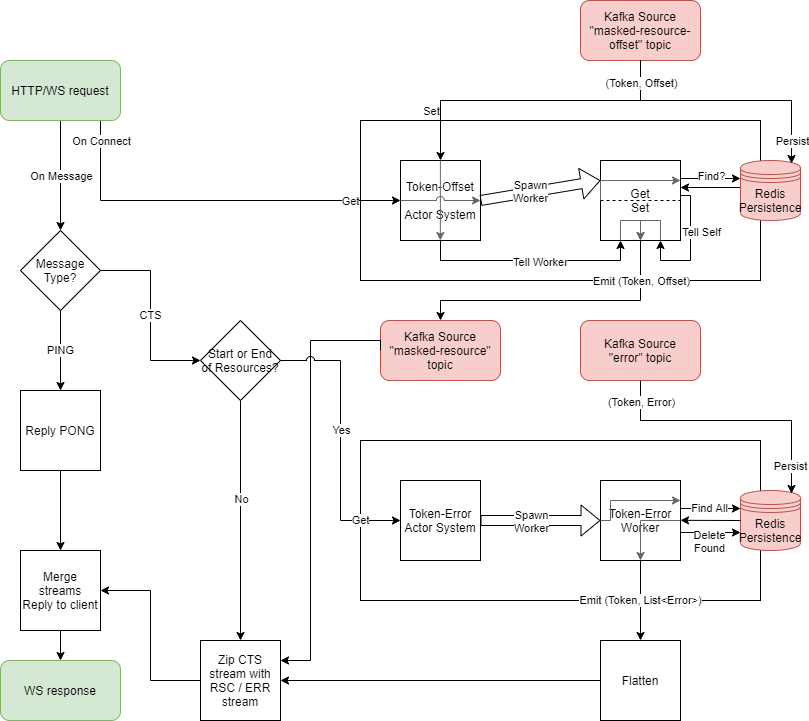
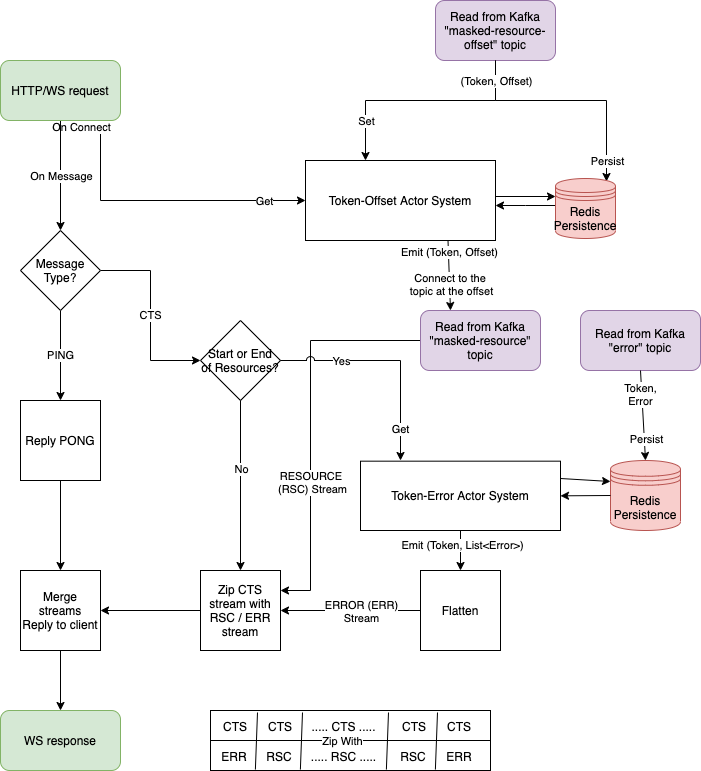
PAL-1090 updated frs diagrams and readmes

diff --git a/filtered-resource-service/README.md b/filtered-resource-service/README.md
@@ -62,15 +62,21 @@ See filtered-resource-service/doc/filtered-resource-service.drawio for the sourc
 The main route of web requests - and subsequent websocket messages - through the service is shown in the above diagram. 
 The green boxes are client web requests, red boxes are kafka topics, and red storage is redis persistence.
 
-### Token-Offset System
+### Token-Offset Actor System
 
 The top-right box is the token-offset-system and its associated worker actors. 
 This performs the task of persisting and retrieving offsets for tokens. 
 We use an Akka Actor System to process both requests from the client and messages from kafka. 
-In the former case, the offset is either looked-up from redis or told to the actor from kafka. 
-In the latter case, the offset is persisted to redis and then told to all running actors for that given token.
+The first diagram below shows what happens when a client connects to the service before the request has been processed by Palisade.
+The second diagram below shows what happens when a client connects to the service after the request has been processed by Palisade.
 
-### Token-Error System
+#### Early Client Connection
+![Filtered-Resource Service Early Client Connection Diagram](doc/Filtered-Resource-Offset-Early-Client.png)
+
+#### Late Client Connection
+![Filtered-Resource Service Late Client Connection Diagram](doc/Filtered-Resource-Offset-Late-Client.png)
+
+### Token-Error Actor System
 
 The bottom-right box is the token-error-system and its associated worker actors. 
 This performs the task of persisting and retrieving errors for tokens. 
@@ -78,10 +84,12 @@ We use an Akka Actor System to process requests from the client.
 For a given token, all errors matching the token are looked-up from redis. 
 This list of errors are then deleted from redis and emitted by the actor. 
 
-### Websocket Event Service
+![Filtered-Resource Service Error Actor System Diagram](doc/Filtered-Resource-Errors-Actor-System.png)
 
-The left-half is the websocket-event-service. 
-An instance of this service is created for each open client websocket connection. 
+### WebSocket Event Service
+
+The left-half is the WebSocket-event-service. 
+An instance of this service is created for each open client WebSocket connection. 
 The client and server communicate using the following protocol:
 
 | Client Request | Server Response                | Notes

diff --git a/filtered-resource-service/doc/README.md b/filtered-resource-service/doc/README.md
@@ -33,3 +33,16 @@ See [draw.io](https://app.diagrams.net/) for the tools to reproduce the image fr
 
 ### [Filtered-Resource-Service-LL.drawio](./Filtered-Resource-Service-LL.drawio)
 ![filtered-resource-service.drawio](./Filtered-Resource-Service-LL.png)
+
+---
+
+### [Topic-Offset-Actor-System.drawio](./Filtered-Resource-Offset-Actor-System.drawio)
+#### Early Client Connection
+![filtered-resource-service.drawio](./Filtered-Resource-Offset-Early-Client.png)
+#### Late Client Connection
+![filtered-resource-service.drawio](./Filtered-Resource-Offset-Late-Client.png)
+
+---
+
+### [Topic-Errors-Actor-System.drawio](./Filtered-Resource-Errors-Actor-System.drawio)
+![filtered-resource-service.drawio](./Filtered-Resource-Errors-Actor-System.png)

diff --git a/README.md b/README.md
@@ -20,8 +20,8 @@ limitations under the License.
 Windows is not an explicitly supported environment, although where possible Palisade has been made compatible.  
 For Windows developer environments, we recommend setting up [WSL](https://docs.microsoft.com/en-us/windows/wsl/).
 
-### Note
-This is not the start point for understanding Palisade.
+### Getting Started
+This is not the starting point for understanding Palisade.
 This should be done from within the main [Palisade repo](https://github.com/gchq/Palisade)
 
 ## Overview
